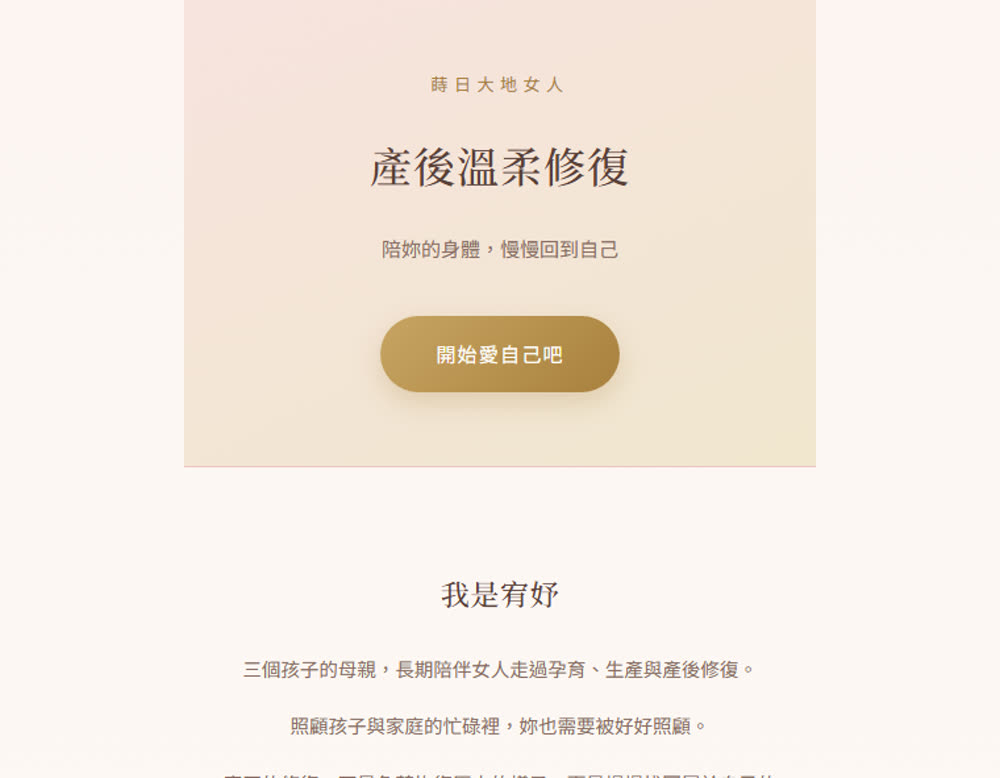
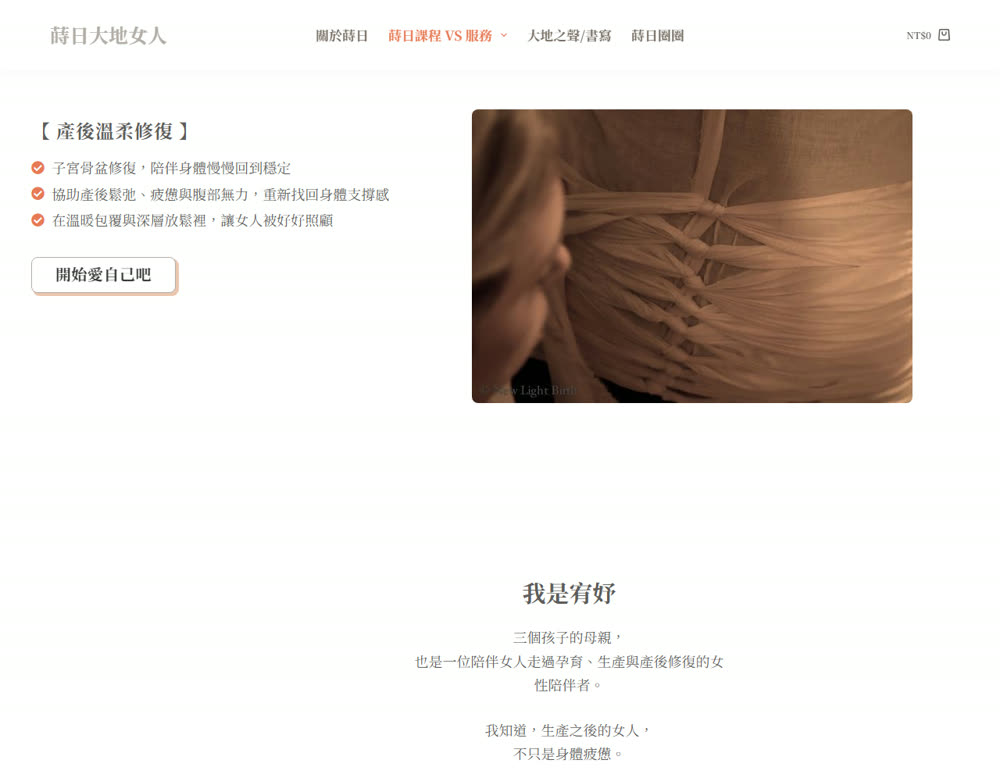
作品區更新：宥妤的網站補上連結與新截圖
宥妤的站已長成完整網站（導覽列/課程服務/書寫專區），
換上新截圖並補上網址。101 頁作品區改 2x2 四件，
四位姊妹各一件、都可點進去看。

Claude-Session: https://claude.ai/code/session_01MQkcgNyqBb7zDQmKjNCtn7

diff --git a/101/index.html b/101/index.html
@@ -183,7 +183,7 @@
   .who li::before{content:"✦";position:absolute;left:0;color:var(--rose);top:18px;font-size:.86rem}
 
   /* 第一梯成品 */
-  .nsgrid{display:grid;grid-template-columns:repeat(3,1fr);gap:20px;margin-top:40px}
+  .nsgrid{display:grid;grid-template-columns:repeat(2,1fr);gap:22px;margin-top:40px}
   .nscard{background:var(--card);border:1px solid var(--line);border-radius:22px;
     overflow:hidden;backdrop-filter:blur(8px);display:flex;flex-direction:column}
   .nsshot{width:100%;aspect-ratio:16/10;object-fit:cover;object-position:top center;display:block;
@@ -530,7 +530,7 @@
   <div class="wrap">
     <div class="label">下一步</div>
     <h2>定位想清楚之後，總要把它做出來</h2>
-    <p class="lead">下面這三個網站，是上完 <span class="num">9/9</span> 那四堂的姊妹自己做的。<br>她們來的時候，沒有一個人寫過程式 —— 有幾個現在已經在線上收預約了。</p>
+    <p class="lead">下面這些，是上完 <span class="num">9/9</span> 那四堂的姊妹自己做的。<br>她們來的時候，沒有一個人寫過程式 ——<br>現在有人在線上收預約，有人已經在賣自己的作品了。</p>
 
     <div class="nsgrid">
       <div class="nscard">
@@ -560,6 +560,16 @@
           <h3>海潮銅鑼 Ocean Tide Gong</h3>
           <p>中英雙語、有導覽列、有場次與常見問題，還接上 LINE 預約 —— 這已經是一個完整營運中的服務網站了。</p>
           <a class="nslink" href="https://gong-bath.kumudsfreqs.live" target="_blank" rel="noopener">看網站 →</a>
+        </div>
+      </div>
+
+      <div class="nscard">
+        <img class="nsshot" src="../img/works/w-youyu.jpg" alt="宥妤的產後溫柔修復" loading="lazy">
+        <div class="nsbody">
+          <div class="nswho">宥妤</div>
+          <h3>產後溫柔修復</h3>
+          <p>把一個產後修復的服務講清楚 —— 給的是「慢慢回到自己」。現在已經長成一個完整的站：導覽列、課程與服務、書寫專區都有了。</p>
+          <a class="nslink" href="https://shaktiyoyo6969.com/%E7%94%A2%E5%BE%8C%E6%BA%AB%E9%A4%8A%E6%94%B6%E8%85%B9/" target="_blank" rel="noopener">看網站 →</a>
         </div>
       </div>
     </div>

diff --git a/index.html b/index.html
@@ -609,7 +609,8 @@
         <div class="gtext">
           <div class="gwho">宥妤</div>
           <h3>產後溫柔修復</h3>
-          <p>用 Why／Who／What／When／Where 五張卡片，把一個產後修復的服務講清楚 —— 給的是「慢慢回到自己」。</p>
+          <p>把一個產後修復的服務講清楚 —— 給的是「慢慢回到自己」。現在已經長成一個完整的站：導覽列、課程與服務、書寫專區都有了。</p>
+          <a class="glink" href="https://shaktiyoyo6969.com/%E7%94%A2%E5%BE%8C%E6%BA%AB%E9%A4%8A%E6%94%B6%E8%85%B9/" target="_blank" rel="noopener">看網站 →</a>
         </div>
       </div>
 
@@ -641,6 +642,7 @@
           <a class="glink" href="https://gong-bath.kumudsfreqs.live" target="_blank" rel="noopener">看網站 →</a>
         </div>
       </div>
+
     </div>
 
     <div class="classroom">
